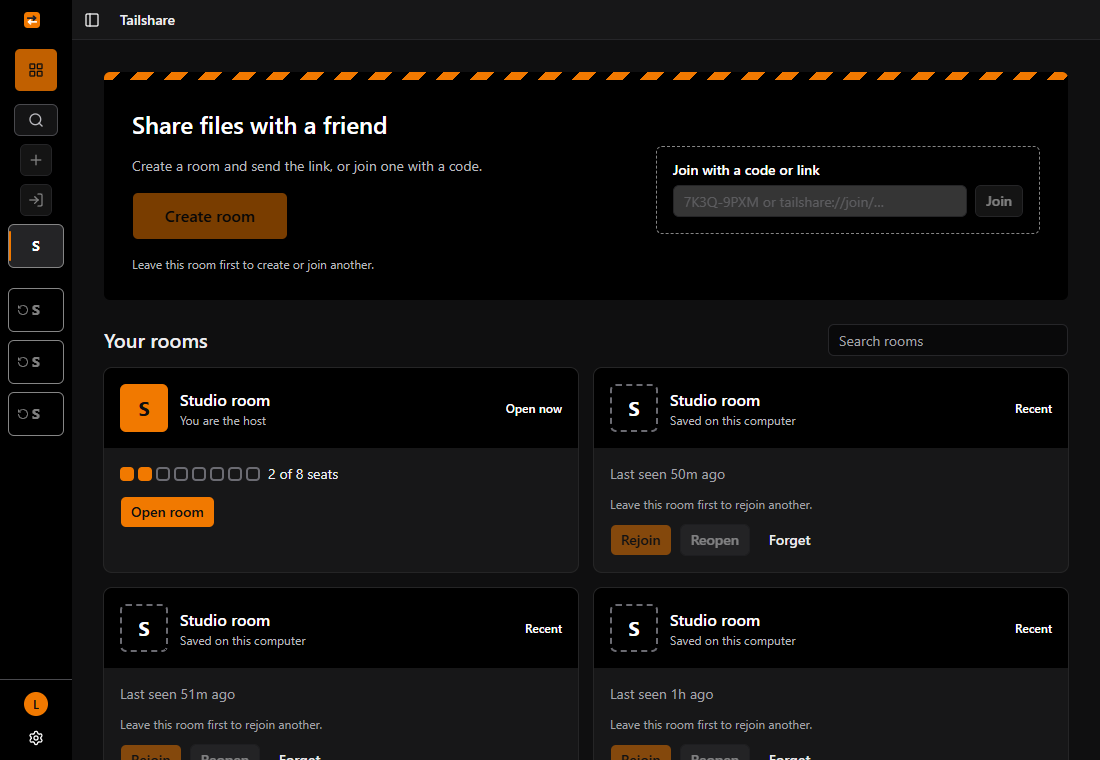
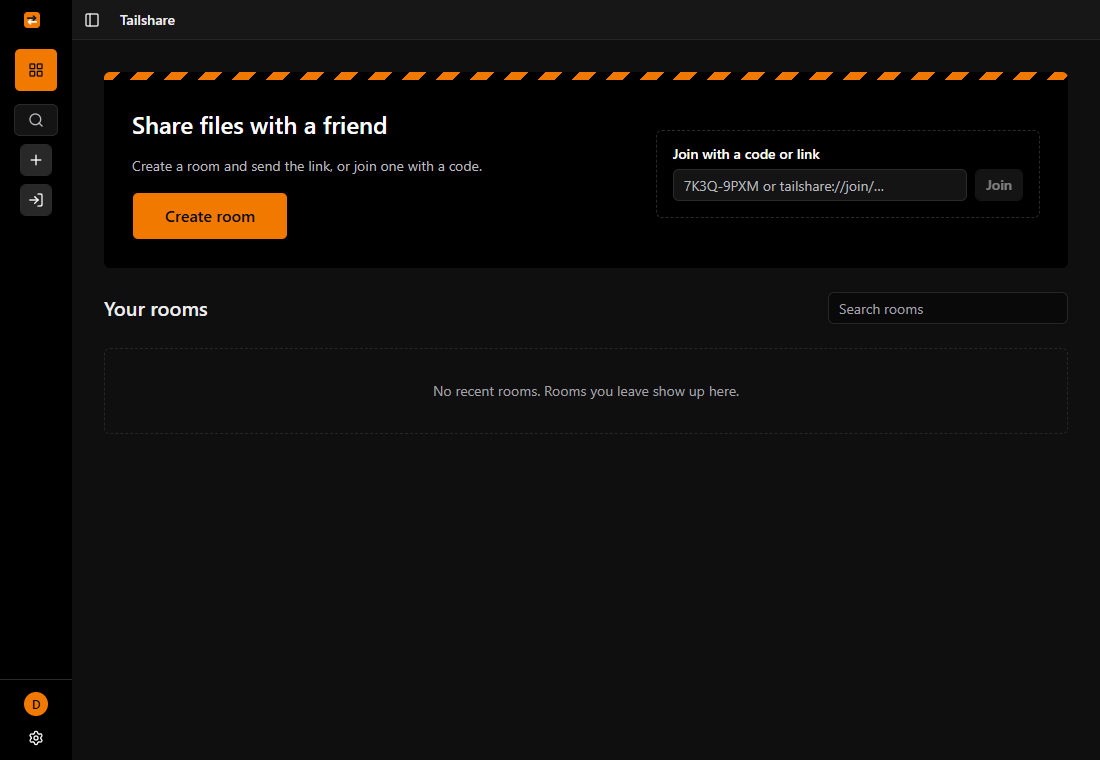
style(desktop): soft borders on the chat box, dashed boxes and rail
The owner found these borders too bright; they now use --border like
the fields do, and the rail border is dimmer.

diff --git a/web/apps/desktop/src/renderer/src/routes/-components/home-board.tsx b/web/apps/desktop/src/renderer/src/routes/-components/home-board.tsx
@@ -91,7 +91,7 @@ export function HomeBoard({
                       {Array.from({ length: 8 }, (_, index) => (
                         <span
                           key={index}
-                          className={`size-3.5 rounded-sm border-2 ${index < count ? "border-primary bg-primary" : "border-input"}`}
+                          className={`size-3.5 rounded-sm border-2 ${index < count ? "border-primary bg-primary" : "border-border"}`}
                         />
                       ))}
                     </span>
@@ -198,7 +198,7 @@ function RoomCardHeader({
     <div className="flex items-center gap-3 bg-chrome p-4 text-chrome-foreground">
       <span
         aria-hidden
-        className={`grid size-12 shrink-0 place-items-center rounded-md text-xl font-bold ${active ? "bg-primary text-primary-foreground" : "border-2 border-dashed border-input text-chrome-foreground"}`}
+        className={`grid size-12 shrink-0 place-items-center rounded-md text-xl font-bold ${active ? "bg-primary text-primary-foreground" : "border-2 border-dashed border-border text-chrome-foreground"}`}
       >
         {Array.from(name)[0]?.toUpperCase()}
       </span>

diff --git a/web/apps/desktop/src/renderer/src/routes/-components/chat-composer.tsx b/web/apps/desktop/src/renderer/src/routes/-components/chat-composer.tsx
@@ -70,7 +70,7 @@ export function ChatComposer({
     >
       <div className="flex w-full flex-col gap-1.5">
         {/* T3 shape: the text on top, a tool row under it. */}
-        <div className="flex flex-col rounded-2xl border border-input bg-field focus-within:border-ring focus-within:ring-3 focus-within:ring-ring/50">
+        <div className="flex flex-col rounded-2xl border border-border bg-field focus-within:border-ring focus-within:ring-3 focus-within:ring-ring/50">
           <Textarea
             value={text}
             onChange={(event) => setText(event.target.value)}

diff --git a/web/apps/desktop/src/renderer/src/routes/-components/empty-state.tsx b/web/apps/desktop/src/renderer/src/routes/-components/empty-state.tsx
@@ -48,7 +48,7 @@ export function EmptyState({
             </p>
           ) : null}
         </div>
-        <div className="spaces-rail w-full rounded-lg border border-dashed border-input p-4">
+        <div className="spaces-rail w-full rounded-lg border border-dashed border-border p-4">
           <JoinForm
             id="join-input"
             enabled={enabled}

diff --git a/web/apps/desktop/src/renderer/src/routes/-components/chat-composer.test.tsx b/web/apps/desktop/src/renderer/src/routes/-components/chat-composer.test.tsx
@@ -30,7 +30,7 @@ describe("ChatComposer", () => {
       />
     )
 
-    expect(box().closest(".rounded-2xl")?.className).toContain("border-input")
+    expect(box().closest(".rounded-2xl")?.className).toContain("border-border")
   })
 
   it("clears the box when the sent text is unchanged", () => {

diff --git a/web/apps/desktop/src/renderer/src/styles/globals.css b/web/apps/desktop/src/renderer/src/styles/globals.css
@@ -144,7 +144,7 @@ html.mica body {
   --secondary: #141415;
   --secondary-foreground: #ffffff;
   --muted: #141415;
-  --border: #49494d;
+  --border: #2a2a2d;
   --foreground: #ffffff;
   --muted-foreground: #b8b8bd;
   --card: #000000;
